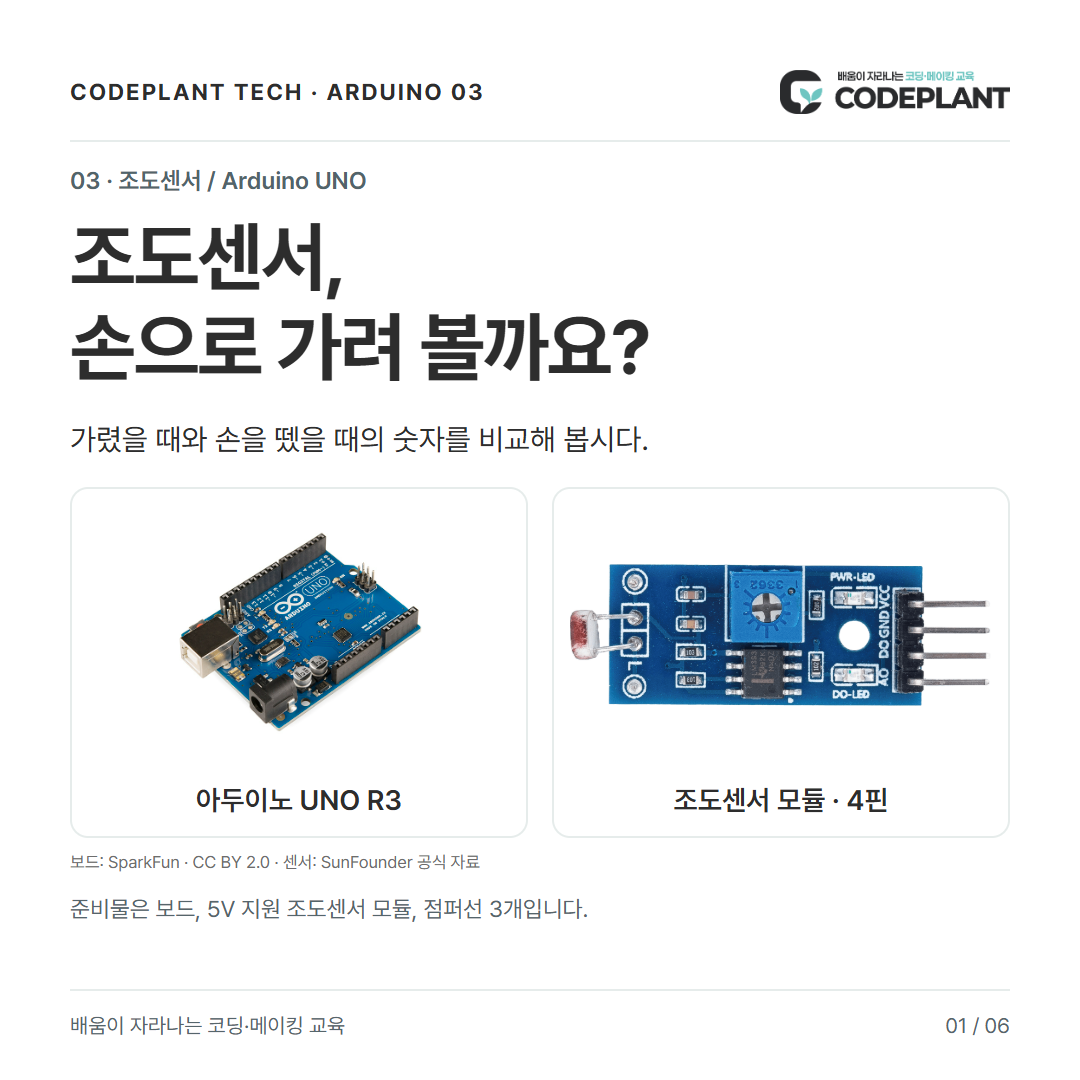
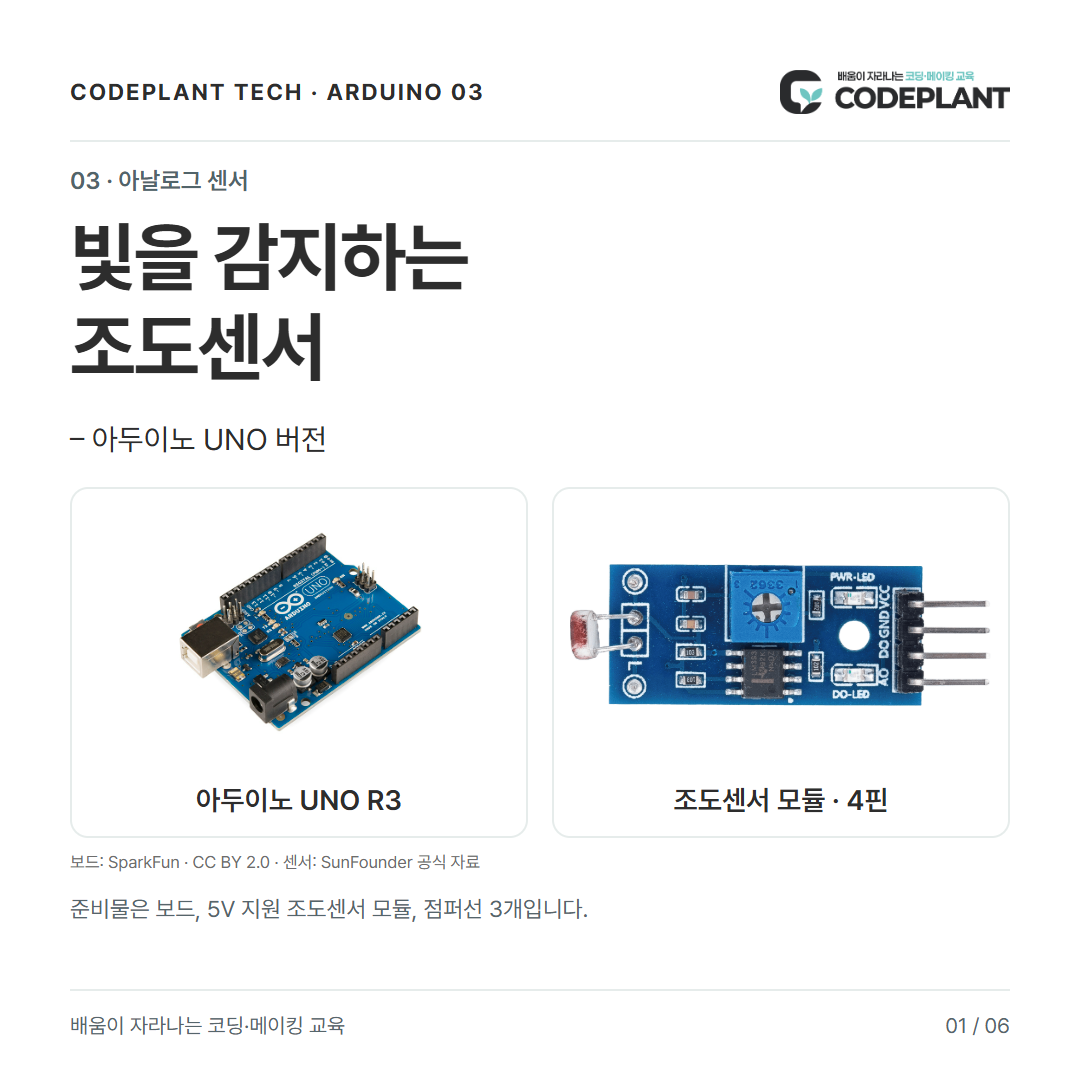
Update arduino-001-cds-ao educational cards and code

Changed region(s): [[0.0611, 0.1528, 0.6111, 0.3667], [0.0611, 0.3972, 0.6111, 0.4278]]

diff --git a/caption.md b/caption.md
@@ -1,4 +1,4 @@
-# 조도센서, 손으로 가려 볼까요?
+# 빛을 감지하는 조도센서 · 아두이노 UNO 버전
 
 센서를 가렸을 때와 손을 뗐을 때, 시리얼 모니터의 숫자가 어떻게 달라지는지 비교해 보세요.
 
